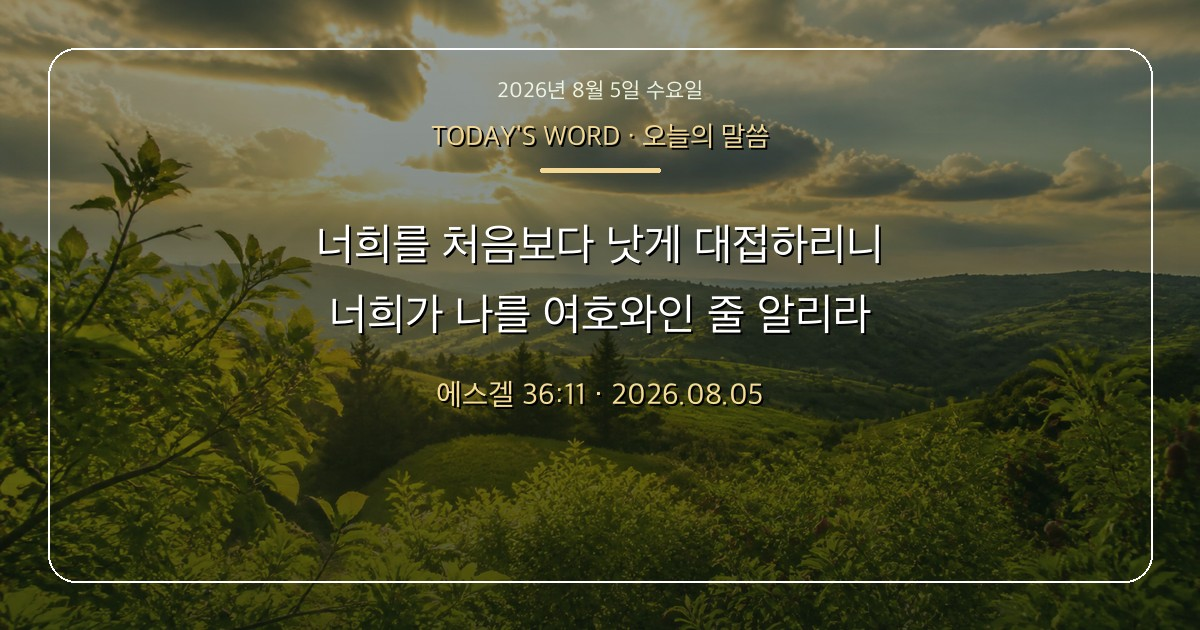
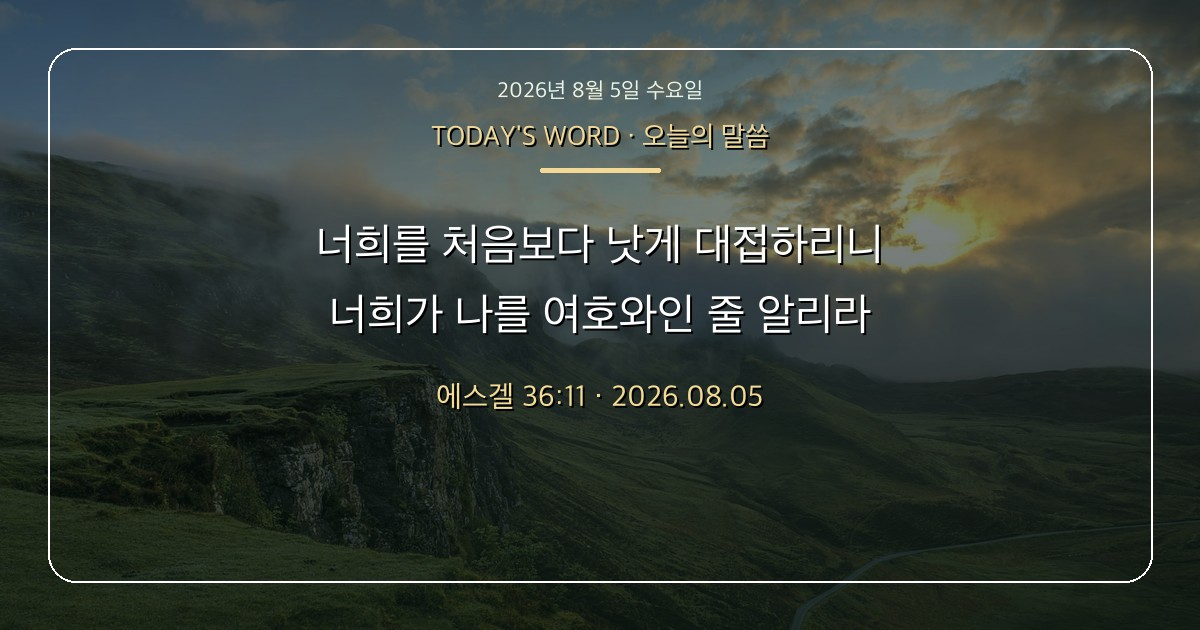
Bible QT 2026-08-05

diff --git a/2026-08-05/index.html b/2026-08-05/index.html
@@ -21,18 +21,18 @@
   <meta property="og:image:type" content="image/png">
   <meta property="og:image:width" content="1200">
   <meta property="og:image:height" content="630">
-  <meta property="og:image:alt" content="황금빛 회복의 산과 들판 배경 위 에스겔 36장 오늘의 말씀">
+  <meta property="og:image:alt" content="안개 낀 푸른 산과 들판 배경 위 에스겔 36장 오늘의 말씀">
 
   <meta name="twitter:card" content="summary_large_image">
   <meta name="twitter:title" content="오늘의 말씀｜처음보다 낫게 대접하리니">
   <meta name="twitter:description" content="이전보다 더 나은 삶으로 회복시키시는 하나님 — 에스겔 36:8-12">
   <meta name="twitter:image" content="https://vidavida1970.github.io/Bible/2026-08-05/assets/thumbnail-v1.png">
-  <meta name="twitter:image:alt" content="황금빛 회복의 산과 들판 배경 위 에스겔 36장 오늘의 말씀">
+  <meta name="twitter:image:alt" content="안개 낀 푸른 산과 들판 배경 위 에스겔 36장 오늘의 말씀">
 
   <title>오늘의 말씀｜처음보다 낫게 대접하리니</title>
   <style>
     *{box-sizing:border-box} html{scroll-behavior:smooth} body{margin:0;background:#163424;color:#fff;font-family:Pretendard,"Noto Sans KR","Apple SD Gothic Neo",sans-serif}
-    .page{min-height:100vh;padding:52px 20px 68px;background:linear-gradient(180deg,rgba(12,28,18,.38),rgba(10,22,15,.88)),url("assets/background.jpg") center/cover no-repeat fixed}
+    .page{min-height:100vh;padding:52px 20px 68px;background:linear-gradient(180deg,rgba(12,28,18,.40),rgba(10,22,15,.88)),url("assets/background.jpg") center/cover no-repeat fixed}
     .shell{width:min(940px,100%);margin:auto;display:grid;gap:25px}
     .card{border:1px solid rgba(255,230,190,.22);backdrop-filter:blur(15px);-webkit-backdrop-filter:blur(15px);box-shadow:0 26px 75px rgba(0,0,0,.35)}
     .verse{padding:clamp(34px,6vw,70px);border-radius:34px;background:linear-gradient(145deg,rgba(20,42,28,.80),rgba(28,56,36,.58));text-align:center}
@@ -41,12 +41,14 @@
     blockquote{margin:0;font-family:"Noto Serif KR","Nanum Myeongjo",serif;font-size:clamp(21px,3.4vw,33px);font-weight:700;line-height:1.72;letter-spacing:-.04em;word-break:keep-all;text-shadow:0 4px 24px rgba(0,0,0,.72)}
     .highlight{color:#fff1c9;font-weight:900}
     .ref{margin-top:26px;color:#f5daa2;font-size:19px;font-weight:800}
+    .source{margin-top:14px;color:rgba(255,255,255,.68);font-size:13px}
     .video{padding:24px;border-radius:28px;background:rgba(14,28,20,.86)}
     h2{margin:0 0 14px;font-size:18px}
     .video-wrap{position:relative;width:100%;aspect-ratio:16/9;overflow:hidden;border-radius:20px;background:#000}
     .video-wrap iframe{position:absolute;inset:0;width:100%;height:100%;border:0}
     .watch{display:inline-flex;margin-top:14px;min-height:46px;align-items:center;padding:0 20px;border-radius:999px;background:#f2d48f;color:#163424;text-decoration:none;font-weight:800}
-    .credit{margin:0;text-align:center;font-size:12px;color:rgba(255,255,255,.72)}
+    .credit{margin:0;text-align:center;font-size:12px;color:rgba(255,255,255,.72);line-height:1.7}
+    .credit a{color:#f2d48f;text-decoration:none}
     @media(max-width:700px){.page{padding:28px 14px 42px;background-attachment:scroll}.verse{padding:35px 21px;border-radius:25px}.video{padding:15px;border-radius:22px}blockquote{line-height:1.62;font-size:clamp(18px,5.1vw,25px)}}
   </style>
 </head>
@@ -57,21 +59,22 @@
       <p class="label">TODAY'S WORD · 오늘의 말씀</p>
       <blockquote>
         “그러나 너희 이스라엘 산들아, 너희는 가지를 내고 내 백성 이스라엘을 위하여 열매를 맺어라. 그들이 올 때가 가까이 이르렀다.<br><br>
-내가 돌이켜 너희와 함께하리니, 사람이 너희를 갈고 심을 것이며, 내가 또 사람을 너희 위에 많게 하리니 이들은 이스라엘 온 족속이라. 그들로 성읍들에 거하게 하며 빈 땅에 건축하게 하리라.<br><br>
-내가 너희 위에 사람과 짐승으로 많게 하되 생육이 중다하고 번성하게 할 것이라. <span class="highlight">너희를 처음보다 낫게 대접하리니, 너희가 나를 여호와인 줄 알리라.</span>”
+내가 돌이켜 너희와 함께하리니, 사람이 너희를 갈고 심을 것이며, 내가 또 사람을 너희 위에 많게 하리니 이들은 이스라엘 온 족속이라.<br><br>
+<span class="highlight">너희를 처음보다 낫게 대접하리니, 너희가 나를 여호와인 줄 알리라.</span>”
       </blockquote>
       <div class="ref">에스겔 36:8-12</div>
+      <p class="source">본문 범위: 에스겔 36:1-15 중 핵심 구절 · 개역한글 기준 · CGN 생명의 삶 2026-08-05</p>
     </section>
 
     <section class="card video">
       <h2>▶ 에스겔 36:8-12 말씀 영상 함께 보기</h2>
       <div class="video-wrap">
-        <iframe src="https://www.youtube-nocookie.com/embed/d51ZtLVqSwA?rel=0&amp;playsinline=1" title="에스겔 36:8-12 말씀 묵상 영상" referrerpolicy="strict-origin-when-cross-origin" allow="accelerometer; autoplay; clipboard-write; encrypted-media; gyroscope; picture-in-picture; web-share" allowfullscreen></iframe>
+        <iframe src="https://www.youtube-nocookie.com/embed/d51ZtLVqSwA?rel=0&amp;playsinline=1" title="[생명의 삶 큐티] 이전보다 더 나은 삶으로 회복시키십니다 |에스겔 36:1~15| 박종길 목사 | 260805QT" referrerpolicy="strict-origin-when-cross-origin" allow="accelerometer; autoplay; clipboard-write; encrypted-media; gyroscope; picture-in-picture; web-share" allowfullscreen></iframe>
       </div>
       <a class="watch" href="https://youtu.be/d51ZtLVqSwA" target="_blank" rel="noopener noreferrer">▶ YouTube에서 바로 보기</a>
     </section>
 
-    <p class="credit">오늘의 말씀 배경화면 | 2026-08-05 · 에스겔 36:8-12</p>
+    <p class="credit">오늘의 말씀 배경화면 | 2026-08-05 · 에스겔 36:8-12<br>배경 사진: <a href="https://unsplash.com/photos/foggy-mountain-summit-5QgIuuBxKwM" target="_blank" rel="noopener noreferrer" style="color:#f2d48f;text-decoration:none;">Unsplash · photo-1470071459604-3b5ec3a7fe05</a> · Free to use under the Unsplash License</p>
   </div></main>
 </body>
 </html>

diff --git a/2026-08-05/kakao-v1.html b/2026-08-05/kakao-v1.html
@@ -21,18 +21,18 @@
   <meta property="og:image:type" content="image/png">
   <meta property="og:image:width" content="1200">
   <meta property="og:image:height" content="630">
-  <meta property="og:image:alt" content="황금빛 회복의 산과 들판 배경 위 에스겔 36장 오늘의 말씀">
+  <meta property="og:image:alt" content="안개 낀 푸른 산과 들판 배경 위 에스겔 36장 오늘의 말씀">
 
   <meta name="twitter:card" content="summary_large_image">
   <meta name="twitter:title" content="오늘의 말씀｜처음보다 낫게 대접하리니">
   <meta name="twitter:description" content="이전보다 더 나은 삶으로 회복시키시는 하나님 — 에스겔 36:8-12">
   <meta name="twitter:image" content="https://vidavida1970.github.io/Bible/2026-08-05/assets/thumbnail-v1.png">
-  <meta name="twitter:image:alt" content="황금빛 회복의 산과 들판 배경 위 에스겔 36장 오늘의 말씀">
+  <meta name="twitter:image:alt" content="안개 낀 푸른 산과 들판 배경 위 에스겔 36장 오늘의 말씀">
 
   <title>오늘의 말씀｜처음보다 낫게 대접하리니</title>
   <style>
     *{box-sizing:border-box} html{scroll-behavior:smooth} body{margin:0;background:#163424;color:#fff;font-family:Pretendard,"Noto Sans KR","Apple SD Gothic Neo",sans-serif}
-    .page{min-height:100vh;padding:52px 20px 68px;background:linear-gradient(180deg,rgba(12,28,18,.38),rgba(10,22,15,.88)),url("assets/background.jpg") center/cover no-repeat fixed}
+    .page{min-height:100vh;padding:52px 20px 68px;background:linear-gradient(180deg,rgba(12,28,18,.40),rgba(10,22,15,.88)),url("assets/background.jpg") center/cover no-repeat fixed}
     .shell{width:min(940px,100%);margin:auto;display:grid;gap:25px}
     .card{border:1px solid rgba(255,230,190,.22);backdrop-filter:blur(15px);-webkit-backdrop-filter:blur(15px);box-shadow:0 26px 75px rgba(0,0,0,.35)}
     .verse{padding:clamp(34px,6vw,70px);border-radius:34px;background:linear-gradient(145deg,rgba(20,42,28,.80),rgba(28,56,36,.58));text-align:center}
@@ -41,12 +41,14 @@
     blockquote{margin:0;font-family:"Noto Serif KR","Nanum Myeongjo",serif;font-size:clamp(21px,3.4vw,33px);font-weight:700;line-height:1.72;letter-spacing:-.04em;word-break:keep-all;text-shadow:0 4px 24px rgba(0,0,0,.72)}
     .highlight{color:#fff1c9;font-weight:900}
     .ref{margin-top:26px;color:#f5daa2;font-size:19px;font-weight:800}
+    .source{margin-top:14px;color:rgba(255,255,255,.68);font-size:13px}
     .video{padding:24px;border-radius:28px;background:rgba(14,28,20,.86)}
     h2{margin:0 0 14px;font-size:18px}
     .video-wrap{position:relative;width:100%;aspect-ratio:16/9;overflow:hidden;border-radius:20px;background:#000}
     .video-wrap iframe{position:absolute;inset:0;width:100%;height:100%;border:0}
     .watch{display:inline-flex;margin-top:14px;min-height:46px;align-items:center;padding:0 20px;border-radius:999px;background:#f2d48f;color:#163424;text-decoration:none;font-weight:800}
-    .credit{margin:0;text-align:center;font-size:12px;color:rgba(255,255,255,.72)}
+    .credit{margin:0;text-align:center;font-size:12px;color:rgba(255,255,255,.72);line-height:1.7}
+    .credit a{color:#f2d48f;text-decoration:none}
     @media(max-width:700px){.page{padding:28px 14px 42px;background-attachment:scroll}.verse{padding:35px 21px;border-radius:25px}.video{padding:15px;border-radius:22px}blockquote{line-height:1.62;font-size:clamp(18px,5.1vw,25px)}}
   </style>
 </head>
@@ -57,21 +59,22 @@
       <p class="label">TODAY'S WORD · 오늘의 말씀</p>
       <blockquote>
         “그러나 너희 이스라엘 산들아, 너희는 가지를 내고 내 백성 이스라엘을 위하여 열매를 맺어라. 그들이 올 때가 가까이 이르렀다.<br><br>
-내가 돌이켜 너희와 함께하리니, 사람이 너희를 갈고 심을 것이며, 내가 또 사람을 너희 위에 많게 하리니 이들은 이스라엘 온 족속이라. 그들로 성읍들에 거하게 하며 빈 땅에 건축하게 하리라.<br><br>
-내가 너희 위에 사람과 짐승으로 많게 하되 생육이 중다하고 번성하게 할 것이라. <span class="highlight">너희를 처음보다 낫게 대접하리니, 너희가 나를 여호와인 줄 알리라.</span>”
+내가 돌이켜 너희와 함께하리니, 사람이 너희를 갈고 심을 것이며, 내가 또 사람을 너희 위에 많게 하리니 이들은 이스라엘 온 족속이라.<br><br>
+<span class="highlight">너희를 처음보다 낫게 대접하리니, 너희가 나를 여호와인 줄 알리라.</span>”
       </blockquote>
       <div class="ref">에스겔 36:8-12</div>
+      <p class="source">본문 범위: 에스겔 36:1-15 중 핵심 구절 · 개역한글 기준 · CGN 생명의 삶 2026-08-05</p>
     </section>
 
     <section class="card video">
       <h2>▶ 에스겔 36:8-12 말씀 영상 함께 보기</h2>
       <div class="video-wrap">
-        <iframe src="https://www.youtube-nocookie.com/embed/d51ZtLVqSwA?rel=0&amp;playsinline=1" title="에스겔 36:8-12 말씀 묵상 영상" referrerpolicy="strict-origin-when-cross-origin" allow="accelerometer; autoplay; clipboard-write; encrypted-media; gyroscope; picture-in-picture; web-share" allowfullscreen></iframe>
+        <iframe src="https://www.youtube-nocookie.com/embed/d51ZtLVqSwA?rel=0&amp;playsinline=1" title="[생명의 삶 큐티] 이전보다 더 나은 삶으로 회복시키십니다 |에스겔 36:1~15| 박종길 목사 | 260805QT" referrerpolicy="strict-origin-when-cross-origin" allow="accelerometer; autoplay; clipboard-write; encrypted-media; gyroscope; picture-in-picture; web-share" allowfullscreen></iframe>
       </div>
       <a class="watch" href="https://youtu.be/d51ZtLVqSwA" target="_blank" rel="noopener noreferrer">▶ YouTube에서 바로 보기</a>
     </section>
 
-    <p class="credit">오늘의 말씀 배경화면 | 2026-08-05 · 에스겔 36:8-12</p>
+    <p class="credit">오늘의 말씀 배경화면 | 2026-08-05 · 에스겔 36:8-12<br>배경 사진: <a href="https://unsplash.com/photos/foggy-mountain-summit-5QgIuuBxKwM" target="_blank" rel="noopener noreferrer" style="color:#f2d48f;text-decoration:none;">Unsplash · photo-1470071459604-3b5ec3a7fe05</a> · Free to use under the Unsplash License</p>
   </div></main>
 </body>
 </html>
